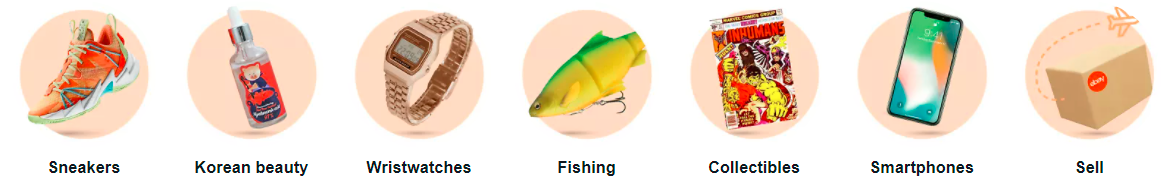
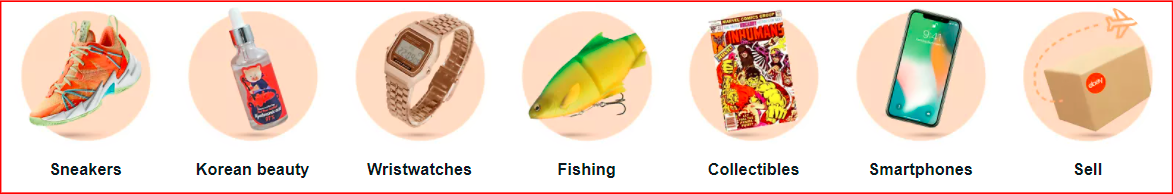
screenshots highlight method added

diff --git a/test-output/old/Default suite/methods-alphabetical.html b/test-output/old/Default suite/methods-alphabetical.html
@@ -1,22 +1,22 @@
 <h2>Methods run, sorted chronologically</h2><h3>&gt;&gt; means before, &lt;&lt; means after</h3><p/><br/><em>Default suite</em><p/><small><i>(Hover the method name to see the test class name)</i></small><p/>
 <table border="1">
 <tr><th>Time</th><th>Delta (ms)</th><th>Suite<br>configuration</th><th>Test<br>configuration</th><th>Class<br>configuration</th><th>Groups<br>configuration</th><th>Method<br>configuration</th><th>Test<br>method</th><th>Thread</th><th>Instances</th></tr>
-<tr bgcolor="6cff7a">  <td>21/07/07 00:53:35</td>   <td>0</td> <td>&nbsp;</td><td>&nbsp;</td><td>&nbsp;</td><td>&nbsp;</td><td>&nbsp;</td><td title="TakingScreenShots.screenShotofaElement()[pri:0, instance:screenshots.TakingScreenShots@96def03]">screenShotofaElement</td> 
-  <td>main@609962972</td>   <td></td> </tr>
-<tr bgcolor="6cff7a">  <td>21/07/07 00:53:44</td>   <td>9243</td> <td>&nbsp;</td><td>&nbsp;</td><td>&nbsp;</td><td>&nbsp;</td><td>&nbsp;</td><td title="TakingScreenShots.screenShotofaPage()[pri:0, instance:screenshots.TakingScreenShots@96def03]">screenShotofaPage</td> 
-  <td>main@609962972</td>   <td></td> </tr>
-<tr bgcolor="6cff7a">  <td>21/07/07 00:53:53</td>   <td>18684</td> <td>&nbsp;</td><td>&nbsp;</td><td>&nbsp;</td><td>&nbsp;</td><td>&nbsp;</td><td title="TakingScreenShots.screenShotofaSectionInaPage()[pri:0, instance:screenshots.TakingScreenShots@96def03]">screenShotofaSectionInaPage</td> 
-  <td>main@609962972</td>   <td></td> </tr>
-<tr bgcolor="6cff7a">  <td>21/07/07 00:53:51</td>   <td>16548</td> <td>&nbsp;</td><td>&nbsp;</td><td>&nbsp;</td><td>&nbsp;</td><td title="&gt;&gt;TakingScreenShots.setUp()[pri:0, instance:screenshots.TakingScreenShots@96def03]">&gt;&gt;setUp</td> 
-<td>&nbsp;</td>  <td>main@609962972</td>   <td></td> </tr>
-<tr bgcolor="6cff7a">  <td>21/07/07 00:53:51</td>   <td>16548</td> <td>&nbsp;</td><td>&nbsp;</td><td>&nbsp;</td><td>&nbsp;</td><td title="&gt;&gt;TakingScreenShots.setUp()[pri:0, instance:screenshots.TakingScreenShots@96def03]">&gt;&gt;setUp</td> 
-<td>&nbsp;</td>  <td>main@609962972</td>   <td></td> </tr>
-<tr bgcolor="6cff7a">  <td>21/07/07 00:53:51</td>   <td>16548</td> <td>&nbsp;</td><td>&nbsp;</td><td>&nbsp;</td><td>&nbsp;</td><td title="&gt;&gt;TakingScreenShots.setUp()[pri:0, instance:screenshots.TakingScreenShots@96def03]">&gt;&gt;setUp</td> 
-<td>&nbsp;</td>  <td>main@609962972</td>   <td></td> </tr>
-<tr bgcolor="6cff7a">  <td>21/07/07 00:53:56</td>   <td>21176</td> <td>&nbsp;</td><td>&nbsp;</td><td>&nbsp;</td><td>&nbsp;</td><td title="&lt;&lt;TakingScreenShots.tearDown()[pri:0, instance:screenshots.TakingScreenShots@96def03]">&lt;&lt;tearDown</td> 
-<td>&nbsp;</td>  <td>main@609962972</td>   <td></td> </tr>
-<tr bgcolor="6cff7a">  <td>21/07/07 00:53:56</td>   <td>21176</td> <td>&nbsp;</td><td>&nbsp;</td><td>&nbsp;</td><td>&nbsp;</td><td title="&lt;&lt;TakingScreenShots.tearDown()[pri:0, instance:screenshots.TakingScreenShots@96def03]">&lt;&lt;tearDown</td> 
-<td>&nbsp;</td>  <td>main@609962972</td>   <td></td> </tr>
-<tr bgcolor="6cff7a">  <td>21/07/07 00:53:56</td>   <td>21176</td> <td>&nbsp;</td><td>&nbsp;</td><td>&nbsp;</td><td>&nbsp;</td><td title="&lt;&lt;TakingScreenShots.tearDown()[pri:0, instance:screenshots.TakingScreenShots@96def03]">&lt;&lt;tearDown</td> 
-<td>&nbsp;</td>  <td>main@609962972</td>   <td></td> </tr>
+<tr bgcolor="6cff7a">  <td>21/07/07 01:02:47</td>   <td>0</td> <td>&nbsp;</td><td>&nbsp;</td><td>&nbsp;</td><td>&nbsp;</td><td>&nbsp;</td><td title="TakingScreenShots.screenShotofaElement()[pri:0, instance:screenshots.TakingScreenShots@3cc2931c]">screenShotofaElement</td> 
+  <td>main@1499136125</td>   <td></td> </tr>
+<tr bgcolor="6cff7a">  <td>21/07/07 01:02:53</td>   <td>6245</td> <td>&nbsp;</td><td>&nbsp;</td><td>&nbsp;</td><td>&nbsp;</td><td>&nbsp;</td><td title="TakingScreenShots.screenShotofaPage()[pri:0, instance:screenshots.TakingScreenShots@3cc2931c]">screenShotofaPage</td> 
+  <td>main@1499136125</td>   <td></td> </tr>
+<tr bgcolor="6cff7a">  <td>21/07/07 01:03:01</td>   <td>14046</td> <td>&nbsp;</td><td>&nbsp;</td><td>&nbsp;</td><td>&nbsp;</td><td>&nbsp;</td><td title="TakingScreenShots.screenShotofaSectionInaPage()[pri:0, instance:screenshots.TakingScreenShots@3cc2931c]">screenShotofaSectionInaPage</td> 
+  <td>main@1499136125</td>   <td></td> </tr>
+<tr bgcolor="6cff7a">  <td>21/07/07 01:02:58</td>   <td>11407</td> <td>&nbsp;</td><td>&nbsp;</td><td>&nbsp;</td><td>&nbsp;</td><td title="&gt;&gt;TakingScreenShots.setUp()[pri:0, instance:screenshots.TakingScreenShots@3cc2931c]">&gt;&gt;setUp</td> 
+<td>&nbsp;</td>  <td>main@1499136125</td>   <td></td> </tr>
+<tr bgcolor="6cff7a">  <td>21/07/07 01:02:58</td>   <td>11407</td> <td>&nbsp;</td><td>&nbsp;</td><td>&nbsp;</td><td>&nbsp;</td><td title="&gt;&gt;TakingScreenShots.setUp()[pri:0, instance:screenshots.TakingScreenShots@3cc2931c]">&gt;&gt;setUp</td> 
+<td>&nbsp;</td>  <td>main@1499136125</td>   <td></td> </tr>
+<tr bgcolor="6cff7a">  <td>21/07/07 01:02:58</td>   <td>11407</td> <td>&nbsp;</td><td>&nbsp;</td><td>&nbsp;</td><td>&nbsp;</td><td title="&gt;&gt;TakingScreenShots.setUp()[pri:0, instance:screenshots.TakingScreenShots@3cc2931c]">&gt;&gt;setUp</td> 
+<td>&nbsp;</td>  <td>main@1499136125</td>   <td></td> </tr>
+<tr bgcolor="6cff7a">  <td>21/07/07 01:03:04</td>   <td>17452</td> <td>&nbsp;</td><td>&nbsp;</td><td>&nbsp;</td><td>&nbsp;</td><td title="&lt;&lt;TakingScreenShots.tearDown()[pri:0, instance:screenshots.TakingScreenShots@3cc2931c]">&lt;&lt;tearDown</td> 
+<td>&nbsp;</td>  <td>main@1499136125</td>   <td></td> </tr>
+<tr bgcolor="6cff7a">  <td>21/07/07 01:03:04</td>   <td>17452</td> <td>&nbsp;</td><td>&nbsp;</td><td>&nbsp;</td><td>&nbsp;</td><td title="&lt;&lt;TakingScreenShots.tearDown()[pri:0, instance:screenshots.TakingScreenShots@3cc2931c]">&lt;&lt;tearDown</td> 
+<td>&nbsp;</td>  <td>main@1499136125</td>   <td></td> </tr>
+<tr bgcolor="6cff7a">  <td>21/07/07 01:03:04</td>   <td>17452</td> <td>&nbsp;</td><td>&nbsp;</td><td>&nbsp;</td><td>&nbsp;</td><td title="&lt;&lt;TakingScreenShots.tearDown()[pri:0, instance:screenshots.TakingScreenShots@3cc2931c]">&lt;&lt;tearDown</td> 
+<td>&nbsp;</td>  <td>main@1499136125</td>   <td></td> </tr>
 </table>

diff --git a/test-output/old/Default suite/methods.html b/test-output/old/Default suite/methods.html
@@ -1,22 +1,22 @@
 <h2>Methods run, sorted chronologically</h2><h3>&gt;&gt; means before, &lt;&lt; means after</h3><p/><br/><em>Default suite</em><p/><small><i>(Hover the method name to see the test class name)</i></small><p/>
 <table border="1">
 <tr><th>Time</th><th>Delta (ms)</th><th>Suite<br>configuration</th><th>Test<br>configuration</th><th>Class<br>configuration</th><th>Groups<br>configuration</th><th>Method<br>configuration</th><th>Test<br>method</th><th>Thread</th><th>Instances</th></tr>
-<tr bgcolor="6cff7a">  <td>21/07/07 00:53:44</td>   <td>0</td> <td>&nbsp;</td><td>&nbsp;</td><td>&nbsp;</td><td>&nbsp;</td><td>&nbsp;</td><td title="TakingScreenShots.screenShotofaPage()[pri:0, instance:screenshots.TakingScreenShots@96def03]">screenShotofaPage</td> 
-  <td>main@609962972</td>   <td></td> </tr>
-<tr bgcolor="6cff7a">  <td>21/07/07 00:53:56</td>   <td>11933</td> <td>&nbsp;</td><td>&nbsp;</td><td>&nbsp;</td><td>&nbsp;</td><td title="&lt;&lt;TakingScreenShots.tearDown()[pri:0, instance:screenshots.TakingScreenShots@96def03]">&lt;&lt;tearDown</td> 
-<td>&nbsp;</td>  <td>main@609962972</td>   <td></td> </tr>
-<tr bgcolor="6cff7a">  <td>21/07/07 00:53:51</td>   <td>7305</td> <td>&nbsp;</td><td>&nbsp;</td><td>&nbsp;</td><td>&nbsp;</td><td title="&gt;&gt;TakingScreenShots.setUp()[pri:0, instance:screenshots.TakingScreenShots@96def03]">&gt;&gt;setUp</td> 
-<td>&nbsp;</td>  <td>main@609962972</td>   <td></td> </tr>
-<tr bgcolor="6cff7a">  <td>21/07/07 00:53:56</td>   <td>11933</td> <td>&nbsp;</td><td>&nbsp;</td><td>&nbsp;</td><td>&nbsp;</td><td title="&lt;&lt;TakingScreenShots.tearDown()[pri:0, instance:screenshots.TakingScreenShots@96def03]">&lt;&lt;tearDown</td> 
-<td>&nbsp;</td>  <td>main@609962972</td>   <td></td> </tr>
-<tr bgcolor="6cff7a">  <td>21/07/07 00:53:35</td>   <td>-9243</td> <td>&nbsp;</td><td>&nbsp;</td><td>&nbsp;</td><td>&nbsp;</td><td>&nbsp;</td><td title="TakingScreenShots.screenShotofaElement()[pri:0, instance:screenshots.TakingScreenShots@96def03]">screenShotofaElement</td> 
-  <td>main@609962972</td>   <td></td> </tr>
-<tr bgcolor="6cff7a">  <td>21/07/07 00:53:51</td>   <td>7305</td> <td>&nbsp;</td><td>&nbsp;</td><td>&nbsp;</td><td>&nbsp;</td><td title="&gt;&gt;TakingScreenShots.setUp()[pri:0, instance:screenshots.TakingScreenShots@96def03]">&gt;&gt;setUp</td> 
-<td>&nbsp;</td>  <td>main@609962972</td>   <td></td> </tr>
-<tr bgcolor="6cff7a">  <td>21/07/07 00:53:51</td>   <td>7305</td> <td>&nbsp;</td><td>&nbsp;</td><td>&nbsp;</td><td>&nbsp;</td><td title="&gt;&gt;TakingScreenShots.setUp()[pri:0, instance:screenshots.TakingScreenShots@96def03]">&gt;&gt;setUp</td> 
-<td>&nbsp;</td>  <td>main@609962972</td>   <td></td> </tr>
-<tr bgcolor="6cff7a">  <td>21/07/07 00:53:56</td>   <td>11933</td> <td>&nbsp;</td><td>&nbsp;</td><td>&nbsp;</td><td>&nbsp;</td><td title="&lt;&lt;TakingScreenShots.tearDown()[pri:0, instance:screenshots.TakingScreenShots@96def03]">&lt;&lt;tearDown</td> 
-<td>&nbsp;</td>  <td>main@609962972</td>   <td></td> </tr>
-<tr bgcolor="6cff7a">  <td>21/07/07 00:53:53</td>   <td>9441</td> <td>&nbsp;</td><td>&nbsp;</td><td>&nbsp;</td><td>&nbsp;</td><td>&nbsp;</td><td title="TakingScreenShots.screenShotofaSectionInaPage()[pri:0, instance:screenshots.TakingScreenShots@96def03]">screenShotofaSectionInaPage</td> 
-  <td>main@609962972</td>   <td></td> </tr>
+<tr bgcolor="6cff7a">  <td>21/07/07 01:02:53</td>   <td>0</td> <td>&nbsp;</td><td>&nbsp;</td><td>&nbsp;</td><td>&nbsp;</td><td>&nbsp;</td><td title="TakingScreenShots.screenShotofaPage()[pri:0, instance:screenshots.TakingScreenShots@3cc2931c]">screenShotofaPage</td> 
+  <td>main@1499136125</td>   <td></td> </tr>
+<tr bgcolor="6cff7a">  <td>21/07/07 01:03:01</td>   <td>7801</td> <td>&nbsp;</td><td>&nbsp;</td><td>&nbsp;</td><td>&nbsp;</td><td>&nbsp;</td><td title="TakingScreenShots.screenShotofaSectionInaPage()[pri:0, instance:screenshots.TakingScreenShots@3cc2931c]">screenShotofaSectionInaPage</td> 
+  <td>main@1499136125</td>   <td></td> </tr>
+<tr bgcolor="6cff7a">  <td>21/07/07 01:02:47</td>   <td>-6245</td> <td>&nbsp;</td><td>&nbsp;</td><td>&nbsp;</td><td>&nbsp;</td><td>&nbsp;</td><td title="TakingScreenShots.screenShotofaElement()[pri:0, instance:screenshots.TakingScreenShots@3cc2931c]">screenShotofaElement</td> 
+  <td>main@1499136125</td>   <td></td> </tr>
+<tr bgcolor="6cff7a">  <td>21/07/07 01:02:58</td>   <td>5162</td> <td>&nbsp;</td><td>&nbsp;</td><td>&nbsp;</td><td>&nbsp;</td><td title="&gt;&gt;TakingScreenShots.setUp()[pri:0, instance:screenshots.TakingScreenShots@3cc2931c]">&gt;&gt;setUp</td> 
+<td>&nbsp;</td>  <td>main@1499136125</td>   <td></td> </tr>
+<tr bgcolor="6cff7a">  <td>21/07/07 01:02:58</td>   <td>5162</td> <td>&nbsp;</td><td>&nbsp;</td><td>&nbsp;</td><td>&nbsp;</td><td title="&gt;&gt;TakingScreenShots.setUp()[pri:0, instance:screenshots.TakingScreenShots@3cc2931c]">&gt;&gt;setUp</td> 
+<td>&nbsp;</td>  <td>main@1499136125</td>   <td></td> </tr>
+<tr bgcolor="6cff7a">  <td>21/07/07 01:03:04</td>   <td>11207</td> <td>&nbsp;</td><td>&nbsp;</td><td>&nbsp;</td><td>&nbsp;</td><td title="&lt;&lt;TakingScreenShots.tearDown()[pri:0, instance:screenshots.TakingScreenShots@3cc2931c]">&lt;&lt;tearDown</td> 
+<td>&nbsp;</td>  <td>main@1499136125</td>   <td></td> </tr>
+<tr bgcolor="6cff7a">  <td>21/07/07 01:02:58</td>   <td>5162</td> <td>&nbsp;</td><td>&nbsp;</td><td>&nbsp;</td><td>&nbsp;</td><td title="&gt;&gt;TakingScreenShots.setUp()[pri:0, instance:screenshots.TakingScreenShots@3cc2931c]">&gt;&gt;setUp</td> 
+<td>&nbsp;</td>  <td>main@1499136125</td>   <td></td> </tr>
+<tr bgcolor="6cff7a">  <td>21/07/07 01:03:04</td>   <td>11207</td> <td>&nbsp;</td><td>&nbsp;</td><td>&nbsp;</td><td>&nbsp;</td><td title="&lt;&lt;TakingScreenShots.tearDown()[pri:0, instance:screenshots.TakingScreenShots@3cc2931c]">&lt;&lt;tearDown</td> 
+<td>&nbsp;</td>  <td>main@1499136125</td>   <td></td> </tr>
+<tr bgcolor="6cff7a">  <td>21/07/07 01:03:04</td>   <td>11207</td> <td>&nbsp;</td><td>&nbsp;</td><td>&nbsp;</td><td>&nbsp;</td><td title="&lt;&lt;TakingScreenShots.tearDown()[pri:0, instance:screenshots.TakingScreenShots@3cc2931c]">&lt;&lt;tearDown</td> 
+<td>&nbsp;</td>  <td>main@1499136125</td>   <td></td> </tr>
 </table>

diff --git a/test-output/index.html b/test-output/index.html
@@ -51,7 +51,7 @@
               <ul>
                 <li>
                   <a href="#" panel-name="test-xml-Default_suite" class="navigator-link ">
-                    <span>C:\Users\manul.wickramanayaka\AppData\Local\Temp\testng-eclipse-490783459\testng-customsuite.xml</span>
+                    <span>C:\Users\manul.wickramanayaka\AppData\Local\Temp\testng-eclipse--283334617\testng-customsuite.xml</span>
                   </a> <!-- navigator-link  -->
                 </li>
                 <li>
@@ -167,7 +167,7 @@
         </div> <!-- panel Default_suite -->
         <div panel-name="test-xml-Default_suite" class="panel">
           <div class="main-panel-header rounded-window-top">
-            <span class="header-content">C:\Users\manul.wickramanayaka\AppData\Local\Temp\testng-eclipse-490783459\testng-customsuite.xml</span>
+            <span class="header-content">C:\Users\manul.wickramanayaka\AppData\Local\Temp\testng-eclipse--283334617\testng-customsuite.xml</span>
           </div> <!-- main-panel-header rounded-window-top -->
           <div class="main-panel-content rounded-window-bottom">
             <pre>
@@ -220,20 +220,20 @@ data.addRows(3);
 data.setCell(0, 0, 0)
 data.setCell(0, 1, 'screenShotofaPage')
 data.setCell(0, 2, 'screenshots.TakingScreenShots')
-data.setCell(0, 3, 2768);
+data.setCell(0, 3, 4608);
 data.setCell(1, 0, 1)
 data.setCell(1, 1, 'screenShotofaSectionInaPage')
 data.setCell(1, 2, 'screenshots.TakingScreenShots')
-data.setCell(1, 3, 2489);
+data.setCell(1, 3, 3404);
 data.setCell(2, 0, 2)
 data.setCell(2, 1, 'screenShotofaElement')
 data.setCell(2, 2, 'screenshots.TakingScreenShots')
-data.setCell(2, 3, 2404);
+data.setCell(2, 3, 3232);
 window.suiteTableData['Default_suite']= { tableData: data, tableDiv: 'times-div-Default_suite'}
 return data;
 }
               </script>
-              <span class="suite-total-time">Total running time: 7 seconds</span>
+              <span class="suite-total-time">Total running time: 11 seconds</span>
               <div id="times-div-Default_suite">
               </div> <!-- times-div-Default_suite -->
             </div> <!-- times-div -->
@@ -266,35 +266,35 @@ return data;
               </div> <!-- configuration-method before -->
               <div class="test-method">
                 <span class="method-name">screenShotofaElement</span>
-                <span class="method-start">3307 ms</span>
+                <span class="method-start">3490 ms</span>
               </div> <!-- test-method -->
               <div class="configuration-method after">
                 <span class="method-name">tearDown</span>
-                <span class="method-start">5716 ms</span>
+                <span class="method-start">6730 ms</span>
               </div> <!-- configuration-method after -->
               <div class="configuration-method before">
                 <span class="method-name">setUp</span>
-                <span class="method-start">10317 ms</span>
+                <span class="method-start">7137 ms</span>
               </div> <!-- configuration-method before -->
               <div class="test-method">
                 <span class="method-name">screenShotofaPage</span>
-                <span class="method-start">12550 ms</span>
+                <span class="method-start">9735 ms</span>
               </div> <!-- test-method -->
               <div class="configuration-method after">
                 <span class="method-name">tearDown</span>
-                <span class="method-start">15321 ms</span>
+                <span class="method-start">14346 ms</span>
               </div> <!-- configuration-method after -->
               <div class="configuration-method before">
                 <span class="method-name">setUp</span>
-                <span class="method-start">19853 ms</span>
+                <span class="method-start">14896 ms</span>
               </div> <!-- configuration-method before -->
               <div class="test-method">
                 <span class="method-name">screenShotofaSectionInaPage</span>
-                <span class="method-start">21991 ms</span>
+                <span class="method-start">17536 ms</span>
               </div> <!-- test-method -->
               <div class="configuration-method after">
                 <span class="method-name">tearDown</span>
-                <span class="method-start">24482 ms</span>
+                <span class="method-start">20942 ms</span>
               </div> <!-- configuration-method after -->
           </div> <!-- main-panel-content rounded-window-bottom -->
         </div> <!-- panel -->

diff --git a/test-output/emailable-report.html b/test-output/emailable-report.html
@@ -9,9 +9,9 @@
 <table>
 <tr><th>Test</th><th># Passed</th><th># Skipped</th><th># Retried</th><th># Failed</th><th>Time (ms)</th><th>Included Groups</th><th>Excluded Groups</th></tr>
 <tr><th colspan="8">Default suite</th></tr>
-<tr><td><a href="#t0">Default test</a></td><td class="num">3</td><td class="num">0</td><td class="num">0</td><td class="num">0</td><td class="num">24,861</td><td></td><td></td></tr>
+<tr><td><a href="#t0">Default test</a></td><td class="num">3</td><td class="num">0</td><td class="num">0</td><td class="num">0</td><td class="num">21,266</td><td></td><td></td></tr>
 </table>
-<table id='summary'><thead><tr><th>Class</th><th>Method</th><th>Start</th><th>Time (ms)</th></tr></thead><tbody><tr><th colspan="4">Default suite</th></tr></tbody><tbody id="t0"><tr><th colspan="4">Default test &#8212; passed</th></tr><tr class="passedeven"><td rowspan="3">screenshots.TakingScreenShots</td><td><a href="#m0">screenShotofaElement</a></td><td rowspan="1">1625599415005</td><td rowspan="1">2404</td></tr><tr class="passedeven"><td><a href="#m1">screenShotofaPage</a></td><td rowspan="1">1625599424248</td><td rowspan="1">2768</td></tr><tr class="passedeven"><td><a href="#m2">screenShotofaSectionInaPage</a></td><td rowspan="1">1625599433689</td><td rowspan="1">2489</td></tr></tbody>
+<table id='summary'><thead><tr><th>Class</th><th>Method</th><th>Start</th><th>Time (ms)</th></tr></thead><tbody><tr><th colspan="4">Default suite</th></tr></tbody><tbody id="t0"><tr><th colspan="4">Default test &#8212; passed</th></tr><tr class="passedeven"><td rowspan="3">screenshots.TakingScreenShots</td><td><a href="#m0">screenShotofaElement</a></td><td rowspan="1">1625599967052</td><td rowspan="1">3232</td></tr><tr class="passedeven"><td><a href="#m1">screenShotofaPage</a></td><td rowspan="1">1625599973297</td><td rowspan="1">4608</td></tr><tr class="passedeven"><td><a href="#m2">screenShotofaSectionInaPage</a></td><td rowspan="1">1625599981098</td><td rowspan="1">3404</td></tr></tbody>
 </table>
 <h2>Default test</h2><h3 id="m0">screenshots.TakingScreenShots#screenShotofaElement</h3><table class="result"><tr><th class="invisible"/></tr></table><p class="totop"><a href="#summary">back to summary</a></p>
 <h3 id="m1">screenshots.TakingScreenShots#screenShotofaPage</h3><table class="result"><tr><th class="invisible"/></tr></table><p class="totop"><a href="#summary">back to summary</a></p>

diff --git a/test-output/Default suite/Default test.html b/test-output/Default suite/Default test.html
@@ -57,9 +57,9 @@ function toggleAllBoxes() {
 <tr>
 <td>Tests passed/Failed/Skipped:</td><td>3/0/0</td>
 </tr><tr>
-<td>Started on:</td><td>Wed Jul 07 00:53:31 IST 2021</td>
+<td>Started on:</td><td>Wed Jul 07 01:02:43 IST 2021</td>
 </tr>
-<tr><td>Total time:</td><td>24 seconds (24861 ms)</td>
+<tr><td>Total time:</td><td>21 seconds (21266 ms)</td>
 </tr><tr>
 <td>Included groups:</td><td></td>
 </tr><tr>
@@ -77,18 +77,18 @@ function toggleAllBoxes() {
 <tr>
 <td title='screenshots.TakingScreenShots.screenShotofaPage()'><b>screenShotofaPage</b><br>Test class: screenshots.TakingScreenShots<br>Test method: Screenshot of a complete Page</td>
 <td></td>
-<td>2</td>
-<td>screenshots.TakingScreenShots@96def03</td></tr>
-<tr>
-<td title='screenshots.TakingScreenShots.screenShotofaElement()'><b>screenShotofaElement</b><br>Test class: screenshots.TakingScreenShots<br>Test method: Screenshot of a Section In a Page</td>
-<td></td>
-<td>2</td>
-<td>screenshots.TakingScreenShots@96def03</td></tr>
+<td>4</td>
+<td>screenshots.TakingScreenShots@3cc2931c</td></tr>
 <tr>
 <td title='screenshots.TakingScreenShots.screenShotofaSectionInaPage()'><b>screenShotofaSectionInaPage</b><br>Test class: screenshots.TakingScreenShots<br>Test method: Screenshot of a Section In a Page</td>
 <td></td>
-<td>2</td>
-<td>screenshots.TakingScreenShots@96def03</td></tr>
+<td>3</td>
+<td>screenshots.TakingScreenShots@3cc2931c</td></tr>
+<tr>
+<td title='screenshots.TakingScreenShots.screenShotofaElement()'><b>screenShotofaElement</b><br>Test class: screenshots.TakingScreenShots<br>Test method: Screenshot of a Section In a Page</td>
+<td></td>
+<td>3</td>
+<td>screenshots.TakingScreenShots@3cc2931c</td></tr>
 </table><p>
 </body>
 </html>

diff --git a/src/test/java/screenshots/TakingScreenShots.java b/src/test/java/screenshots/TakingScreenShots.java
@@ -5,6 +5,7 @@ import java.io.IOException;
 
 import org.apache.commons.io.FileUtils;
 import org.openqa.selenium.By;
+import org.openqa.selenium.JavascriptExecutor;
 import org.openqa.selenium.Keys;
 import org.openqa.selenium.OutputType;
 import org.openqa.selenium.TakesScreenshot;
@@ -19,22 +20,22 @@ import io.github.bonigarcia.wdm.WebDriverManager;
 public class TakingScreenShots {
 
 	WebDriver driver;
-	
+
 	@BeforeMethod
 	public void setUp() {
-		
+
 		WebDriverManager.chromedriver().setup();
 		driver = new ChromeDriver();
 
 		//maximize the window 
 		driver.manage().window().maximize();
-		
+
 	}
-	
+
 
 	@Test(description="Screenshot of a complete Page")
 	public void screenShotofaPage() throws InterruptedException, IOException {
-		
+
 		driver.get("https://www.ebay.com");
 
 		//TakesScreenshot type object initialized
@@ -52,33 +53,47 @@ public class TakingScreenShots {
 	public void screenShotofaSectionInaPage() throws IOException {
 
 		driver.get("https://www.ebay.com");
-		
+
 		WebElement pageSection = driver.findElement(By.xpath("//*[@id=\"destinations_list1\"]/ul"));
 
+		//Call method to highlight
+		highlightElement(pageSection,driver);
+		
 		//take the screenshot and save it as src format
 		File src = pageSection.getScreenshotAs(OutputType.FILE);
 		//File type object initialized
 		File target = new File("SectionCategories.png");
 		//copy src file to target file 
 		FileUtils.copyFile(src,target);
-		
+
 	}
-	
+
 	@Test(description="Screenshot of a Section In a Page")
 	public void screenShotofaElement() throws IOException {
 
 		driver.get("https://www.ebay.com");
-		
+
 		WebElement ElementLogo = driver.findElement(By.xpath("//*[@id=\"gh-la\"]"));
 
+		//Call method to highlight
+		highlightElement(ElementLogo,driver);
+		
 		//take the screenshot and save it as src format
 		File src = ElementLogo.getScreenshotAs(OutputType.FILE);
 		//File type object initialized
 		File target = new File("ElementLogo.png");
 		//copy src file to target file 
 		FileUtils.copyFile(src,target);
-		
+
 	}
+
+	public void highlightElement (WebElement element, WebDriver driver) {
+
+		JavascriptExecutor js = (JavascriptExecutor) driver;
+		js.executeScript("arguments[0].style.border='2px solid red'", element);
+
+	}
+
 
 	@AfterMethod
 	public void tearDown() {
